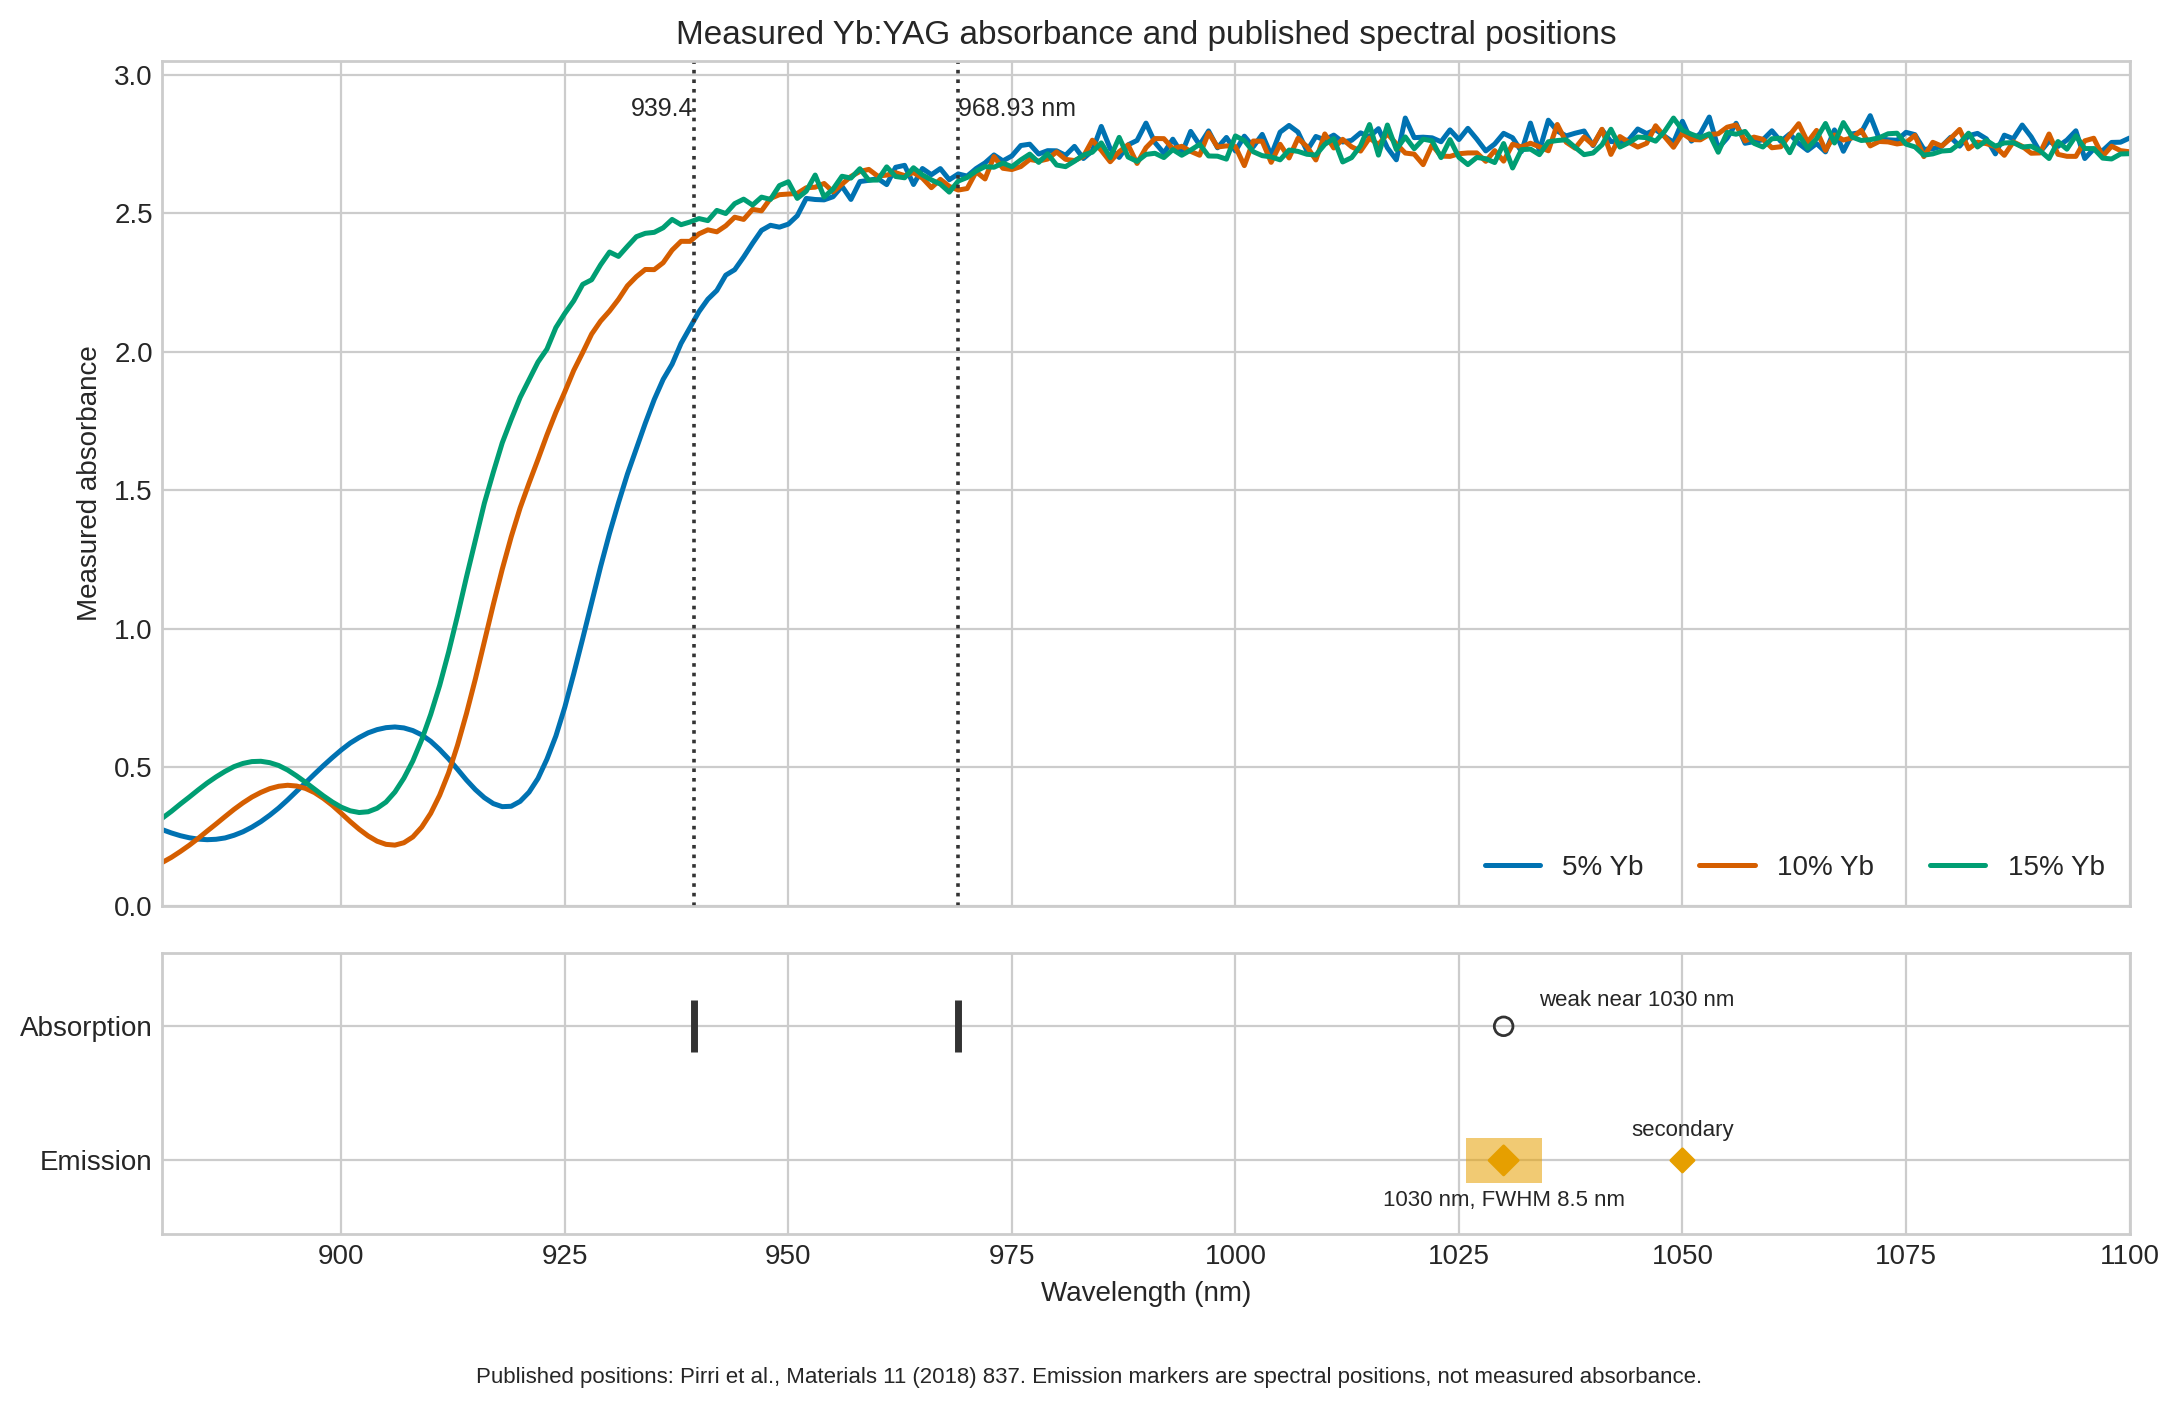
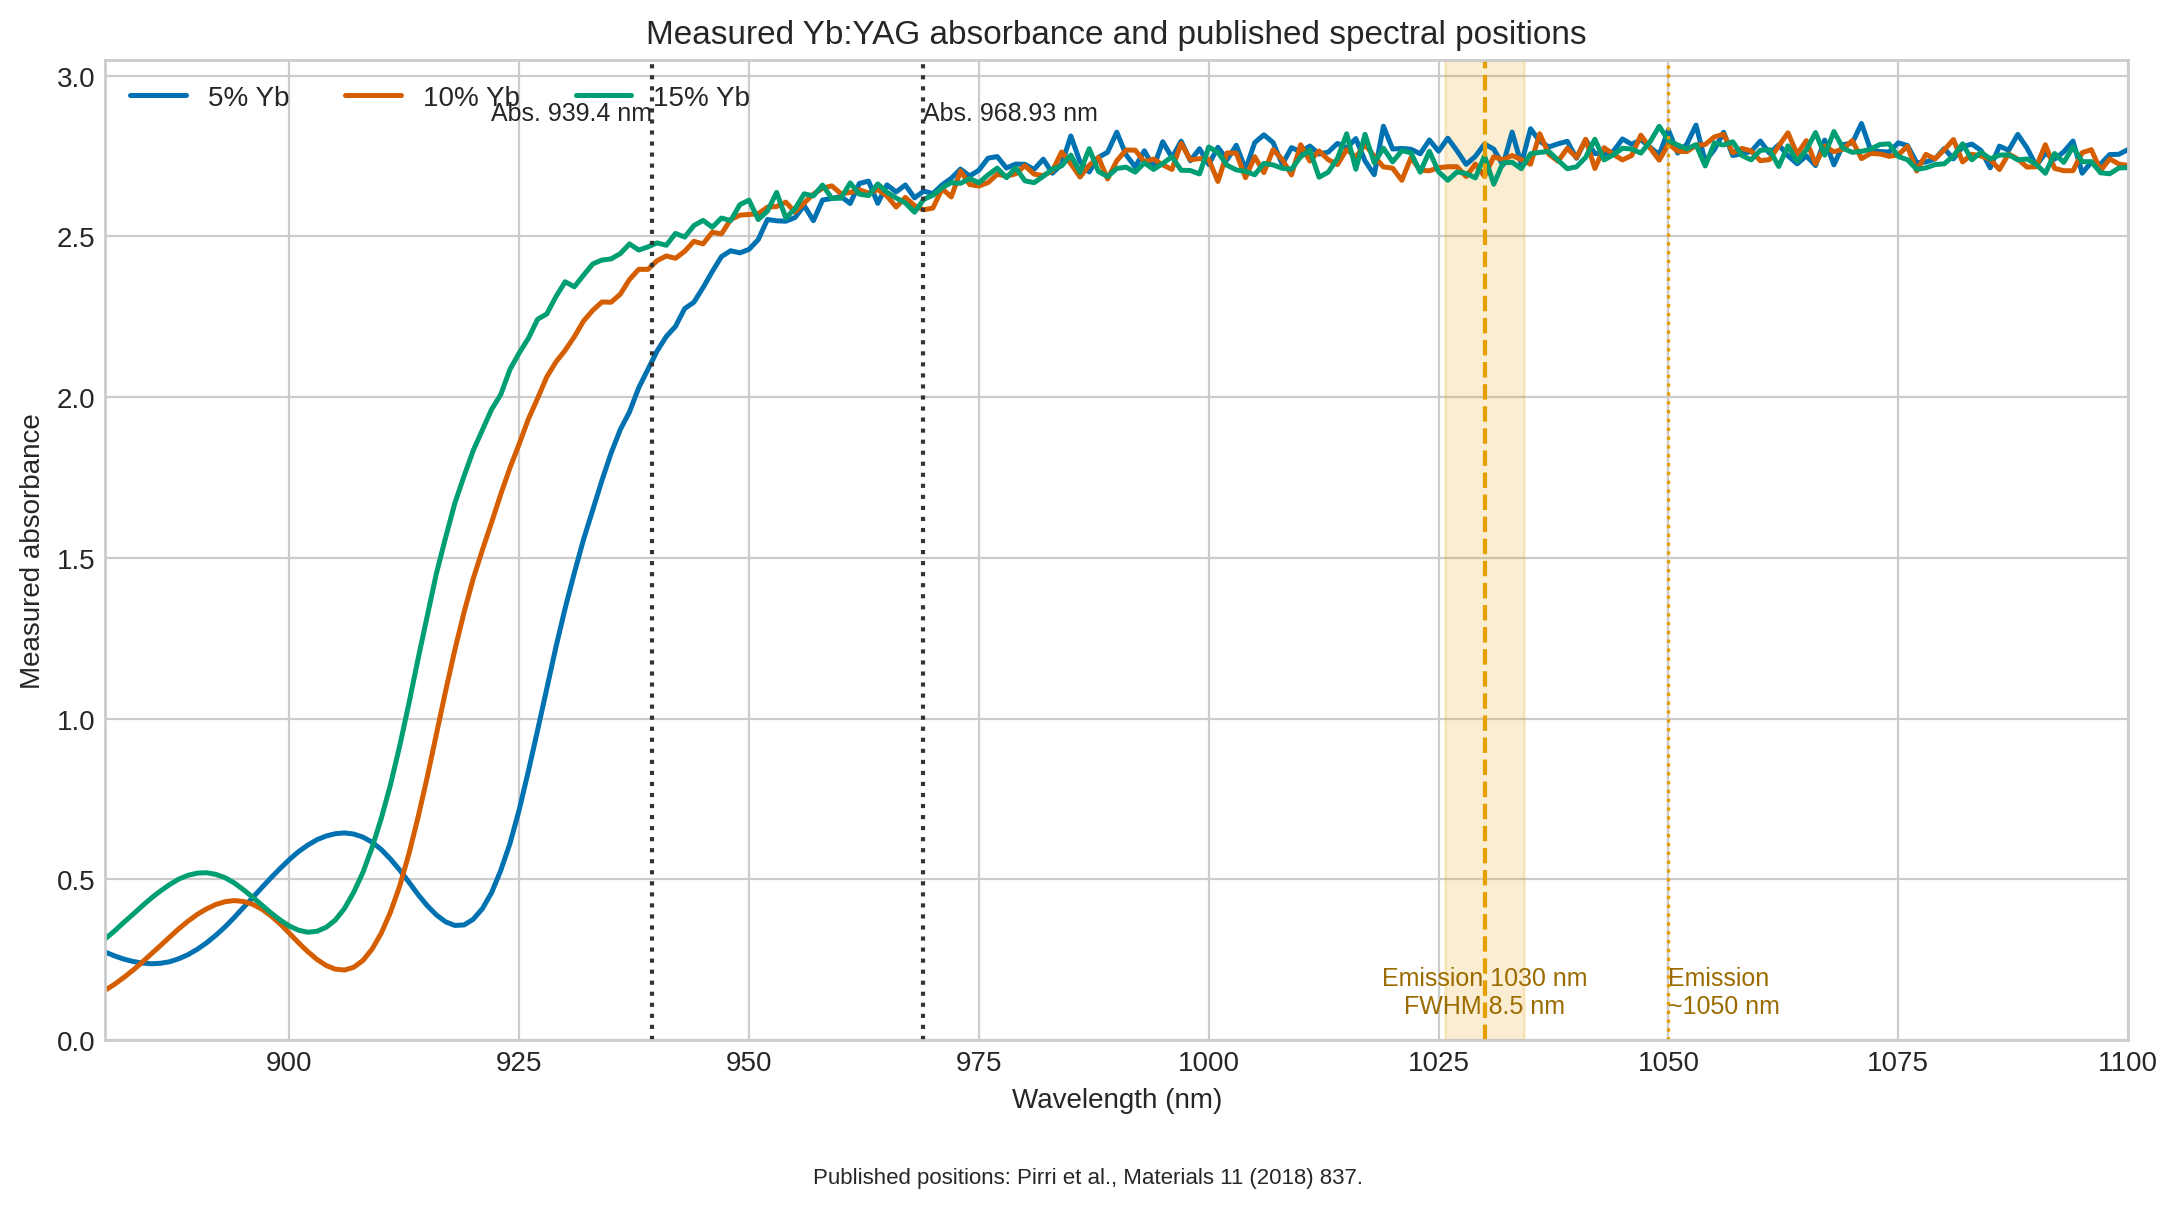
Simplify literature comparison figure

diff --git a/scripts/compare_with_literature.py b/scripts/compare_with_literature.py
@@ -1,9 +1,6 @@
 #!/usr/bin/env python3
 
-from pathlib import Path
-
 import matplotlib.pyplot as plt
-import numpy as np
 
 try:
     from scripts.plot_optical_spectra import COLORS, FIGURES, ROOT, load_export
@@ -11,64 +8,12 @@ except ModuleNotFoundError:
     from plot_optical_spectra import COLORS, FIGURES, ROOT, load_export
 
 
-REFLECTION_FILES = {
-    "Pure sample A": ROOT / "data" / "reflection" / "YbYag_A_A.txt",
-    "Pure sample B": ROOT / "data" / "reflection" / "YbYag_B_A.txt",
-}
-
-PURE_COLORS = {
-    "Pure sample A": COLORS["Pure sample A"],
-    "Pure sample B": COLORS["Pure sample B"],
-}
-
-
-def load_reflection(path: Path):
-    wavelength = []
-    reflection = []
-
-    for line in path.read_text(encoding="ascii").splitlines()[2:]:
-        fields = line.strip().split(",")
-        if len(fields) != 4:
-            continue
-        wavelength.append(float(f"{fields[0]}.{fields[1]}"))
-        reflection.append(float(f"{fields[2]}.{fields[3]}"))
-
-    return np.asarray(wavelength), np.asarray(reflection)
-
-
-def yag_refractive_index(wavelength_nm):
-    wavelength_um = np.asarray(wavelength_nm) / 1000
-    wavelength_squared = wavelength_um**2
-    n_squared = (
-        1
-        + 2.28200 * wavelength_squared / (wavelength_squared - 0.01185)
-        + 3.27644 * wavelength_squared / (wavelength_squared - 282.734)
-    )
-    return np.sqrt(n_squared)
-
-
-def fresnel_spectra(wavelength_nm):
-    refractive_index = yag_refractive_index(wavelength_nm)
-    surface_reflection = ((refractive_index - 1) / (refractive_index + 1)) ** 2
-
-    # Incoherent multiple reflections in a lossless, plane-parallel slab.
-    slab_reflection = 2 * surface_reflection / (1 + surface_reflection)
-    slab_transmission = (1 - surface_reflection) / (1 + surface_reflection)
-    return 100 * surface_reflection, 100 * slab_reflection, 100 * slab_transmission
-
-
 def plot_ybyag_band_comparison(absorbance):
-    figure, axes = plt.subplots(
-        2,
-        1,
-        figsize=(11, 7),
-        sharex=True,
-        gridspec_kw={"height_ratios": [3, 1]},
-    )
+    figure, axis = plt.subplots(figsize=(11, 6))
 
     for sample in ("5% Yb", "10% Yb", "15% Yb"):
         wavelength, signal = absorbance[sample]
-        axes[0].plot(
+        axis.plot(
             wavelength,
             signal,
             color=COLORS[sample],
@@ -76,65 +21,67 @@ def plot_ybyag_band_comparison(absorbance):
             label=sample,
         )
 
-    absorption_peaks = (939.4, 968.93)
-    for wavelength in absorption_peaks:
-        axes[0].axvline(wavelength, color="#333333", linestyle=":", linewidth=1.3)
+    for wavelength in (939.4, 968.93):
+        axis.axvline(
+            wavelength,
+            color="#333333",
+            linestyle=":",
+            linewidth=1.5,
+        )
 
-    axes[0].text(939.4, 2.92, "939.4", ha="right", va="top", fontsize=9)
-    axes[0].text(968.93, 2.92, "968.93 nm", ha="left", va="top", fontsize=9)
-    axes[0].set(
+    axis.axvline(
+        1030,
+        color="#E69F00",
+        linestyle="--",
+        linewidth=1.5,
+    )
+    axis.axvspan(
+        1030 - 8.5 / 2,
+        1030 + 8.5 / 2,
+        color="#E69F00",
+        alpha=0.18,
+    )
+    axis.axvline(
+        1050,
+        color="#E69F00",
+        linestyle=":",
+        linewidth=1.2,
+    )
+
+    axis.text(939.4, 2.92, "Abs. 939.4 nm", ha="right", va="top", fontsize=9)
+    axis.text(968.93, 2.92, "Abs. 968.93 nm", ha="left", va="top", fontsize=9)
+    axis.text(
+        1030,
+        0.07,
+        "Emission 1030 nm\nFWHM 8.5 nm",
+        ha="center",
+        va="bottom",
+        fontsize=9,
+        color="#9C6B00",
+    )
+    axis.text(
+        1050,
+        0.07,
+        "Emission\n~1050 nm",
+        ha="left",
+        va="bottom",
+        fontsize=9,
+        color="#9C6B00",
+    )
+
+    axis.set(
         title="Measured Yb:YAG absorbance and published spectral positions",
+        xlabel="Wavelength (nm)",
         ylabel="Measured absorbance",
+        xlim=(880, 1100),
         ylim=(0, 3.05),
     )
-    axes[0].legend(ncol=3)
-
-    axes[1].set_yticks([1, 0], ["Absorption", "Emission"])
-    axes[1].scatter(
-        absorption_peaks,
-        [1, 1],
-        marker="|",
-        s=350,
-        linewidths=2.5,
-        color="#333333",
-    )
-    axes[1].scatter(
-        [1030],
-        [1],
-        marker="o",
-        s=45,
-        facecolors="none",
-        edgecolors="#333333",
-    )
-    axes[1].barh(
-        0,
-        width=8.5,
-        left=1030 - 8.5 / 2,
-        height=0.34,
-        color="#E69F00",
-        alpha=0.55,
-    )
-    axes[1].scatter(
-        [1030, 1050],
-        [0, 0],
-        marker="D",
-        s=[55, 35],
-        color="#E69F00",
-    )
-    axes[1].set(
-        xlabel="Wavelength (nm)",
-        xlim=(880, 1100),
-        ylim=(-0.55, 1.55),
-    )
-    axes[1].text(1034, 1.15, "weak near 1030 nm", fontsize=8)
-    axes[1].text(1030, -0.34, "1030 nm, FWHM 8.5 nm", ha="center", fontsize=8)
-    axes[1].text(1050, 0.18, "secondary", ha="center", fontsize=8)
+    axis.legend(ncol=3)
 
     figure.text(
         0.5,
         0.005,
-        "Published positions: Pirri et al., Materials 11 (2018) 837. "
-        "Emission markers are spectral positions, not measured absorbance.",
+        "Published positions: Pirri et al., Materials 11 (2018) 837.",
         ha="center",
         fontsize=8,
     )
@@ -147,101 +94,12 @@ def plot_ybyag_band_comparison(absorbance):
     plt.close(figure)
 
 
-def plot_yag_fresnel_comparison(transmission):
-    wavelength = np.linspace(800, 1200, 401)
-    surface_r, slab_r, slab_t = fresnel_spectra(wavelength)
-    reflection = {
-        sample: load_reflection(path) for sample, path in REFLECTION_FILES.items()
-    }
-
-    figure, axes = plt.subplots(2, 1, figsize=(11, 8), sharex=True)
-
-    for sample in ("Pure sample A", "Pure sample B"):
-        measured_wavelength, measured_signal = reflection[sample]
-        axes[0].plot(
-            measured_wavelength,
-            measured_signal,
-            color=PURE_COLORS[sample],
-            linewidth=1.7,
-            label=sample,
-        )
-
-    axes[0].plot(
-        wavelength,
-        surface_r,
-        color="#222222",
-        linestyle=":",
-        linewidth=1.8,
-        label="Theory: one surface",
-    )
-    axes[0].plot(
-        wavelength,
-        slab_r,
-        color="#222222",
-        linestyle="--",
-        linewidth=1.8,
-        label="Theory: two-surface slab",
-    )
-    axes[0].set(
-        title="Pure YAG reflection compared with Fresnel theory",
-        ylabel="Reflection (%)",
-        ylim=(0, 25),
-    )
-    axes[0].legend(ncol=2)
-
-    for sample in ("Pure sample A", "Pure sample B"):
-        measured_wavelength, measured_signal = transmission[sample]
-        axes[1].plot(
-            measured_wavelength,
-            measured_signal,
-            color=PURE_COLORS[sample],
-            linewidth=1.7,
-            label=sample,
-        )
-
-    axes[1].plot(
-        wavelength,
-        slab_t,
-        color="#222222",
-        linestyle="--",
-        linewidth=1.8,
-        label="Theory: lossless slab",
-    )
-    axes[1].set(
-        title="Pure YAG transmission compared with Fresnel theory",
-        xlabel="Wavelength (nm)",
-        ylabel="Transmission (%)",
-        xlim=(800, 1200),
-        ylim=(50, 90),
-    )
-    axes[1].legend(ncol=3)
-
-    figure.text(
-        0.5,
-        0.005,
-        "Theory uses the YAG refractive-index model of Zelmon et al. "
-        "and assumes an uncoated, nonabsorbing plane-parallel slab.",
-        ha="center",
-        fontsize=8,
-    )
-    figure.tight_layout(rect=(0, 0.035, 1, 1))
-    figure.savefig(
-        FIGURES / "YAG_fresnel_comparison.png",
-        dpi=200,
-        bbox_inches="tight",
-    )
-    plt.close(figure)
-
-
 def main():
     FIGURES.mkdir(parents=True, exist_ok=True)
     plt.style.use("seaborn-v0_8-whitegrid")
 
     absorbance = load_export(ROOT / "YbYag_ABS.csv")
-    transmission = load_export(ROOT / "YbYag_T.csv")
-
     plot_ybyag_band_comparison(absorbance)
-    plot_yag_fresnel_comparison(transmission)
 
 
 if __name__ == "__main__":

diff --git a/README.md b/README.md
@@ -14,12 +14,6 @@
 
 ![Measured Yb:YAG absorbance with published spectral positions](figures/YbYAG_literature_band_comparison.png)
 
-![Pure YAG measurements compared with Fresnel theory](figures/YAG_fresnel_comparison.png)
+The published 939.4 and 968.93 nm absorption peaks are unresolved in the broad high-absorbance plateau.
 
-Published Yb:YAG absorption/emission spectrum:
-
-![Published Yb:YAG absorption and emission spectrum](literature/pirri_2018_ybyag_absorption_emission.jpg)
-
-The published 939.4 and 968.93 nm absorption peaks are unresolved in the broad high-absorbance plateau. The pure samples show more reflection and less transmission than an ideal uncoated, lossless YAG slab.
-
-Figure 3 from [Pirri et al., Materials 11 (2018) 837](https://doi.org/10.3390/ma11050837), [CC BY 4.0](https://creativecommons.org/licenses/by/4.0/). YAG refractive index from [Zelmon et al., Applied Optics 37 (1998) 4933](https://doi.org/10.1364/AO.37.004933).
+Spectral positions from [Pirri et al., Materials 11 (2018) 837](https://doi.org/10.3390/ma11050837).